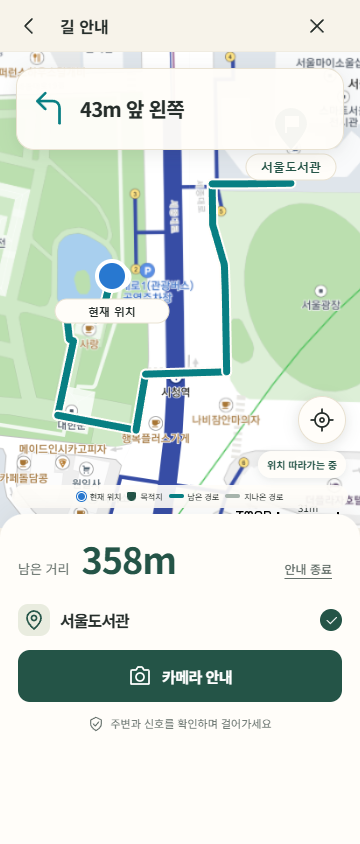
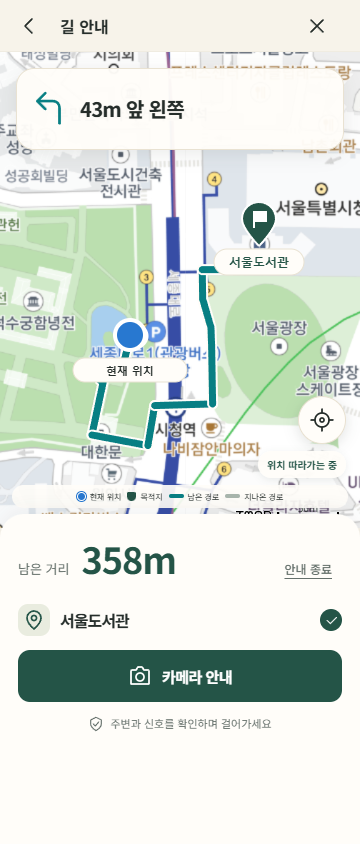
docs: verify concise maneuver cards and destination clearance

diff --git a/docs/portfolio/work-log.md b/docs/portfolio/work-log.md
@@ -304,3 +304,6 @@
 
 
 실제 SDK 검토 보충: 첫 배포에서 실제 TMAP 경로의 ‘43m 앞 왼쪽’을 확인했으나 목적지 깃발이 안내 카드 뒤에 일부 가려졌다. SDK fitBounds의 여백은 결과 화면의 동일 픽셀 여백과 다르므로 실제 지도에서 top 280/360/430 설정을 비교해 핀 상단과 카드 하단을 측정했다. 카드/두 줄 문구 여유를 위해 최종 top 340으로 조정하고 긴 도로명만 말줄임 처리했다. 최종 빌드·관련 9개 통과. 최초 관련 브라우저 36개, 단위 120개 통과. 실외 GPS 정확도는 미검증.
+
+
+2026-11-12 최종 배포 확인: 코드 `eec5efe`, 지도 여백 보완 `7c3e1e4`. Production `dpl_5TssdsyvZG17ZLmjt2ffzyTxdNqL` READY/https://gilbit.vercel.app 반영. 실제 TMAP 서울도서관 검색·도보 응답/지도 SDK에 공개 출발 좌표와 경로 첫 지점을 GPS 대신 주입해 ‘43m 앞 왼쪽’을 확인했다. 390/360/430px에서 안내 카드 하단 150px, 목적지 핀 상단 각각193/203/186px로 가림 없음을 확인했다. 상세 영역 없음·가로 넘침 없음·X 홈 복귀·종료 확정·페이지 오류0 확인. 캡처 `assets/2026-11-12-minimal-guidance-390.png`, `-360.png`, `-430.png` (portfolio 기준). 빌드·단위120개·관련 브라우저36개, 마지막 지도 여백 조정 후 관련9개 재통과. 실외 실제 GPS 정확도는 미검증. 인증 값/인증 URL은 출력하지 않았다.

diff --git a/docs/issues/2026-11-12-minimal-route-guidance.md b/docs/issues/2026-11-12-minimal-route-guidance.md
@@ -18,3 +18,6 @@
 
 
 실제 SDK 검토 보충: 첫 배포에서 실제 TMAP 경로의 ‘43m 앞 왼쪽’을 확인했으나 목적지 깃발이 안내 카드 뒤에 일부 가려졌다. SDK fitBounds의 여백은 결과 화면의 동일 픽셀 여백과 다르므로 실제 지도에서 top 280/360/430 설정을 비교해 핀 상단과 카드 하단을 측정했다. 카드/두 줄 문구 여유를 위해 최종 top 340으로 조정하고 긴 도로명만 말줄임 처리했다. 최종 빌드·관련 9개 통과. 최초 관련 브라우저 36개, 단위 120개 통과. 실외 GPS 정확도는 미검증.
+
+
+2026-11-12 최종 배포 확인: 코드 `eec5efe`, 지도 여백 보완 `7c3e1e4`. Production `dpl_5TssdsyvZG17ZLmjt2ffzyTxdNqL` READY/https://gilbit.vercel.app 반영. 실제 TMAP 서울도서관 검색·도보 응답/지도 SDK에 공개 출발 좌표와 경로 첫 지점을 GPS 대신 주입해 ‘43m 앞 왼쪽’을 확인했다. 390/360/430px에서 안내 카드 하단 150px, 목적지 핀 상단 각각193/203/186px로 가림 없음을 확인했다. 상세 영역 없음·가로 넘침 없음·X 홈 복귀·종료 확정·페이지 오류0 확인. 캡처 `assets/2026-11-12-minimal-guidance-390.png`, `-360.png`, `-430.png` (portfolio 기준). 빌드·단위120개·관련 브라우저36개, 마지막 지도 여백 조정 후 관련9개 재통과. 실외 실제 GPS 정확도는 미검증. 인증 값/인증 URL은 출력하지 않았다.

diff --git a/docs/deployment.md b/docs/deployment.md
@@ -79,3 +79,6 @@
 
 
 2026-11-12 수동 일시중지 제거 배포: 코드 `bee4e87`, production `dpl_Hd4q8dwKC41bVRGcumYpYkPcYo4g` READY. gilbit.vercel.app에서 모의 경로/GPS를 사용해 일시중지 버튼 없음, 남은 거리 옆 종료 버튼 높이 44px 이상, 종료 확인창/취소 확인. 실제 센서·실외 검증과 구분.
+
+
+2026-11-12 최종 배포 확인: 코드 `eec5efe`, 지도 여백 보완 `7c3e1e4`. Production `dpl_5TssdsyvZG17ZLmjt2ffzyTxdNqL` READY/https://gilbit.vercel.app 반영. 실제 TMAP 서울도서관 검색·도보 응답/지도 SDK에 공개 출발 좌표와 경로 첫 지점을 GPS 대신 주입해 ‘43m 앞 왼쪽’을 확인했다. 390/360/430px에서 안내 카드 하단 150px, 목적지 핀 상단 각각193/203/186px로 가림 없음을 확인했다. 상세 영역 없음·가로 넘침 없음·X 홈 복귀·종료 확정·페이지 오류0 확인. 캡처 `assets/2026-11-12-minimal-guidance-390.png`, `-360.png`, `-430.png` (portfolio 기준). 빌드·단위120개·관련 브라우저36개, 마지막 지도 여백 조정 후 관련9개 재통과. 실외 실제 GPS 정확도는 미검증. 인증 값/인증 URL은 출력하지 않았다.
